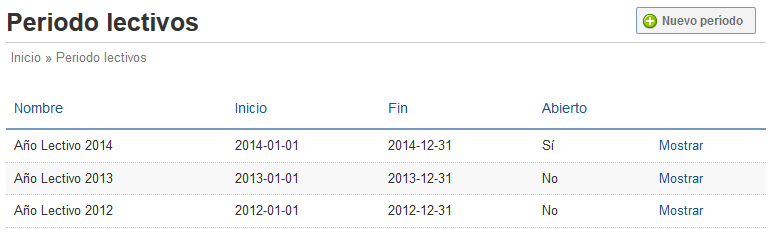
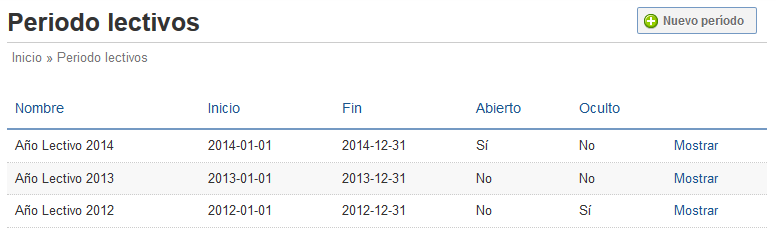
Modificaciones varias

diff --git a/index.html b/index.html
@@ -7,7 +7,7 @@ overview: true
 <section class="intro">
   <div class="grid">
     <div class="unit whole center-on-mobiles">
-      <p class="first"><a href='{{site_url}}/docs/home'> Ir a Gu&iacute;a de uso &raquo; </a></p>
+      <p class="first"><a href='{{ site.url }}/docs/home'> Ir a Gu&iacute;a de uso &raquo; </a></p>
     </div>
   </div>
 </section>

diff --git a/docs/estudiantes.md b/docs/estudiantes.md
@@ -14,7 +14,7 @@ Al ingresar en la opción *Estudiantes* en el menú se desplegará un listado de
 Adicionalmente, el listado cuenta con las siguientes opciones:
 
 - Por defecto, se muestran los estudiantes del periodo lectivo actual. Si se quiere visualizar información histórica, se debe *Mostrar filtros* **(1)**
-  y seleccionar un periodo lectivo diferente.
+  y seleccionar un [periodo lectivo visible](/docs/periodo_lectivos/#crear_periodo_lectivo) diferente.
 - Si el número de estudiantes es demasiado extenso, se puede *Mostrar filtros* **(1)** y limitar los resultados por código, nombres y/o apellidos,
   periodo lectivo o clase.
 - Si se cuenta con el permiso *ESTUDIANTE_CREATE*, se desbloquea la opción *Nuevo* **(2)** para [ingresar un estudiante](#crear_estudiante) sin ninguna ayuda,
@@ -138,7 +138,7 @@ siempre que se respete la proporción de 3 de ancho por 4 de alto. En caso contr
 
 Las opciones de esta pantalla son las siguientes:
 
-- Opción para [enviar un mensaje](/docs/mensajes/#crear_mensaje) **(1)** privado a este estudiante.
+- Opción para [enviar un mensaje](/docs/mensajes/#crear_mensaje) **(1)** privado a este estudiante, si se cuenta con el permiso *ESTUDIANTE_MESSAGE*.
 - Opción para *Editar* los detalles del estudiante **(2)**, si se cuenta con el permiso *ESTUDIANTE_UPDATE* y el periodo lectivo está abierto, 
   lo cual desplegará el formulario de actualización de estudiante con la mayoría de los campos del [formulario de creación](#crear_estudiante).
 - Opción para *Eliminar* el estudiante **(3)**, si se cuenta con el permiso *ESTUDIANTE_MANAGE*, el periodo lectivo esté abierto y el estudiante
@@ -175,10 +175,11 @@ Información académica del estudiante, la cual es diferente para cada periodo l
 - Se puede [visualizar la sección](/docs/secciones/#detalles_de_la_seccin) **(2)** del estudiante si se cuenta con el permiso *SECCION_READ*. Adicionalmente, 
   si se cuenta con el permiso *ESTUDIANTE_CLASE_MANAGE*, se puede acceder a la opción para transferir al estudiante a una sección diferente.
 - Se puede [visualizar el docente guía](/docs/docentes/#expediente_del_docente) **(3)** del estudiante si se cuenta con el permiso *DOCENTE_READ*.
-  Adicionalmente, se cuenta con la opción para [enviarle un mensaje privado](/docs/mensajes/#crear_mensaje).
+  Adicionalmente, se puede [enviarle un mensaje privado](/docs/mensajes/#crear_mensaje) si se cuenta con el permiso *DOCENTE_MESSAGE*.
 
 Cabe mencionar que las pestañas de *Materias*, *Horarios*, *Médico* e *Incidencias* dependen de la información académica que se tenga seleccionada. Por esta razón,
-en la parte inferior de esta pestaña se muestran enlaces **(4)** para visualizar el expediente y calificaciones del estudiante en dicho periodo lectivo.
+en la parte inferior de esta pestaña se muestran enlaces **(4)** para visualizar el expediente y calificaciones del estudiante en dicho periodo lectivo,
+siempre y cuando el [periodo lectivo no esté oculto](/docs/periodo_lectivos/#crear_periodo_lectivo).
 
 <div class="note warning">
   <h5>Transferencia de estudiante</h5>
@@ -195,7 +196,7 @@ En esta pestaña se muestra un listado de las materias que cursa el estudiante p
 
 - Se puede [visualizar la materia](/docs/materias/#detalles_de_la_materia) **(1)** si se cuenta con el permiso *MATERIA_READ*.
 - Se puede [visualizar el docente](/docs/docentes/#expediente_del_docente) **(2)** que imparte la materia si se cuenta con el permiso *DOCENTE_READ*. Adicionalmente,
-  se cuenta con la opción para [enviarle un mensaje privado](/docs/mensajes/#crear_mensaje).
+  se puede [enviarle un mensaje privado](/docs/mensajes/#crear_mensaje) si se cuenta con el permiso *DOCENTE_MESSAGE*.
 - Se pueden visualizar todas las evaluaciones, exámenes y consolidados de la materia, con sus respectivas descripciones y observaciones, al darle clic a la opción
   *Detalle* **(3)**:
 

diff --git a/docs/materias.md b/docs/materias.md
@@ -70,7 +70,7 @@ Existen diversas opciones de configuración para modificar el comportamiento de 
 
   - Si la calificación de una evaluación es inferior a este valor, entonces se resaltará en color rojo en todos los reportes del sistema.
   - Si el valor de la evaluación es menor al 100 %, entonces este valor es ponderado (por ejemplo, si la evaluación vale 10 puntos y el 
-    valor de la nota mínima es 60, entonces cualquier valor menor a 10).
+    valor de la nota mínima es 60, entonces cualquier valor menor a 6).
 
 - **Tipo materia**: Controla los [tipos de evaluaciones que se pueden crear](/docs/evaluaciones/#crear_evaluacin) para esta materia:
 
@@ -128,8 +128,8 @@ Las opciones de esta pantalla son las siguientes:
 
 - Opción para filtrar las pestañas de [estudiantes](#estudiantes) y [evaluaciones](#evaluaciones) por sección **(1)**. Esta opción se oculta si
   el docente no imparte la materia para más de una sección en el grado especificado.
-- Opción para [enviar un mensaje](/docs/mensajes/#crear_mensaje) **(2)** a toda la clase o sección. En el destinatario se podrá seleccionar si se quiere
-  enviar a los estudiantes y padres de familia, a los docentes o a ambos.
+- Opción para [enviar un mensaje](/docs/mensajes/#crear_mensaje) **(2)** a toda la clase o sección, si se cuenta con el permiso *CLASE_MESSAGE* o  *SECCION_MESSAGE*
+  respectivamente. En el destinatario se podrá seleccionar si se quiere enviar a los estudiantes y padres de familia, a los docentes o a ambos.
 - Opción para *Editar* los detalles de la materia **(3)**, si se cuenta con el permiso *MATERIA_MANAGE* y el periodo lectivo está abierto, 
   lo cual desplegará el formulario de actualización de la materia con los mismos campos del [formulario de creación](#crear_materia).
 - Opción para *Eliminar* la materia **(4)**, si se cuenta con el permiso *MATERIA_MANAGE*, el periodo lectivo está abierto y la materia no tiene
@@ -143,7 +143,7 @@ Información general de la sección (periodo lectivo, nivel, grado, docente guí
 
 - Se puede [visualizar la clase](/docs/clases/#detalles_de_la_clase) **(5)** si se cuenta con el permiso *CLASE_READ*.
 - Se puede [visualizar el docente](/docs/docentes/#expediente_del_docente) que imparte la clase **(6)** si se cuenta con el permiso *DOCENTE_READ*. Adicionalmente,
-  se cuenta con la opción para [enviarle un mensaje privado](/docs/mensajes/#crear_mensaje).
+  se puede [enviarle un mensaje privado](/docs/mensajes/#crear_mensaje) si se cuenta con el permiso *DOCENTE_MESSAGE*.
 - Si docentes diferentes imparten la asignatura en las diferentes secciones, entonces luego de los datos generales aparece una sección de *Docentes* en la 
   que se listan los docentes por cada sección.
 - Se puede [modificar la asignación de docentes](#asignar_docentes) **(7)** si se cuenta con el permiso *MATERIA_MANAGE*.
@@ -177,7 +177,7 @@ Esta pestaña muestra un listado de todos los estudiantes que reciben la materia
 
 - Se puede [visualizar un reporte de calificaciones](#calificaciones) **(1)** de la materia para todos los estudiantes.
 - Se puede [visualizar el expediente del estudiante](/docs/estudiantes/#expediente_del_estudiante) **(2)** si se cuenta con el permiso *ESTUDIANTE_READ*.
-- Para cada estudiante se cuenta con la opción de [enviarle un mensaje privado](/docs/mensajes/#crear_mensaje) **(3)**.
+- Se puede [enviarle un mensaje privado](/docs/mensajes/#crear_mensaje) **(3)** al estudante si se cuenta con el permiso *ESTUDIANTE_MESSAGE*.
 - Se puede [visualizar el detalle de calificaciones específico para el estudiante](#detalle_de_calificaciones) **(4)**.
 
 #### Calificaciones

diff --git a/docs/clases.md b/docs/clases.md
@@ -54,8 +54,8 @@ para el periodo lectivo seleccionado.
 
 Las opciones de esta pantalla son las siguientes:
 
-- Opción para [enviar un mensaje](/docs/mensajes/#crear_mensaje) **(1)** a toda la clase. En el destinatario se podrá seleccionar si se quiere
-  enviar a los estudiantes y padres de familia, a los docentes o a ambos.
+- Opción para [enviar un mensaje](/docs/mensajes/#crear_mensaje) **(1)** a toda la clase, si se cuenta con el permiso *CLASE_MESSAGE*. En el destinatario 
+  se podrá seleccionar si se quiere enviar a los estudiantes y padres de familia, a los docentes o a ambos.
 - Opción para *Editar* los detalles de la clase **(2)**, si se cuenta con el permiso *CLASE_MANAGE* y el periodo lectivo está abierto, 
   lo cual desplegará el formulario de actualización de la clase con los mismos campos del [formulario de creación](#crear_clase).
 - Opción para *Eliminar* la clase **(3)**, si se cuenta con el permiso *CLASE_MANAGE*, el periodo lectivo está abierto y la clase no tiene
@@ -75,7 +75,7 @@ Esta pestaña muestra un listado de las materias que se cursan en la clase.
 
 - Se puede [crear una materia](/docs/materias/#crear_materia) **(1)** si se cuenta con el permiso *MATERIA_CREATE*.
 - Se puede [visualizar el docente](/docs/docentes/#expediente_del_docente) **(2)** que imparte la materia si se cuenta con el permiso *DOCENTE_READ*. Adicionalmente,
-  se cuenta con la opción para [enviarle un mensaje privado](/docs/mensajes/#crear_mensaje).
+  se puede [enviarle un mensaje privado](/docs/mensajes/#crear_mensaje) si se cuenta con el permiso *DOCENTE_MESSAGE*.
 - Se puede [visualizar la materia](/docs/materias/#detalles_de_la_materia) **(3)** si se cuenta con el permiso *MATERIA_READ*.
 
 ### Secciones
@@ -86,7 +86,7 @@ Esta pestaña muestra un listado de las secciones en las que se divide la clase.
 
 - Se puede [crear una sección](/docs/secciones/#crear_seccin) **(1)** si se cuenta con el permiso *SECCION_CREATE*.
 - Se puede [visualizar el docente guía](/docs/docentes/#expediente_del_docente) **(2)** de la sección si se cuenta con el permiso *DOCENTE_READ*. Adicionalmente,
-  se cuenta con la opción para [enviarle un mensaje privado](/docs/mensajes/#crear_mensaje).
+  se puede [enviarle un mensaje privado](/docs/mensajes/#crear_mensaje) si se cuenta con el permiso *DOCENTE_MESSAGE*.
 - Se puede [visualizar la sección](/docs/secciones/#detalles_de_la_seccin) **(3)** si se cuenta con el permiso *SECCION_READ*.
 
 ### Estudiantes
@@ -97,7 +97,7 @@ Esta pestaña muestra un listado de todos los estudiantes asignados a la clase.
 
 - Se puede [administrar la asignación de estudiantes a la clase](#asignar_estudiantes) **(1)** si se cuenta con el permiso *ESTUDIANTE_CLASE_MANAGE*.
 - Se puede [visualizar un reporte de calificaciones](#calificaciones) **(2)** consolidado para todos los estudiantes de la clase.
-- Para cada estudiante se cuenta con la opción de [enviarle un mensaje privado](/docs/mensajes/#crear_mensaje) **(3)**.
+- Se puede [enviarle un mensaje privado](/docs/mensajes/#crear_mensaje) **(3)** al estudiante si se cuenta con el permiso *ESTUDIANTE_MESSAGE*.
 - Se puede [visualizar el expediente del estudiante](/docs/estudiantes/#expediente_del_estudiante) **(4)** si se cuenta con el permiso *ESTUDIANTE_READ*.
 
 #### Asignar Estudiantes

diff --git a/docs/secciones.md b/docs/secciones.md
@@ -57,8 +57,8 @@ El docente que se designe como guía de la sección debe tener [asignada al meno
 
 Las opciones de esta pantalla son las siguientes:
 
-- Opción para [enviar un mensaje](/docs/mensajes/#crear_mensaje) **(1)** a toda la sección. En el destinatario se podrá seleccionar si se quiere
-  enviar a los estudiantes y padres de familia, a los docentes o a ambos.
+- Opción para [enviar un mensaje](/docs/mensajes/#crear_mensaje) **(1)** a toda la sección, si se cuenta con el permiso *SECCION_MESSAGE*. En el destinatario 
+  se podrá seleccionar si se quiere enviar a los estudiantes y padres de familia, a los docentes o a ambos.
 - Opción para *Editar* los detalles de la sección **(2)**, si se cuenta con el permiso *SECCION_MANAGE* y el periodo lectivo está abierto, 
   lo cual desplegará el formulario de actualización de la sección con los mismos campos del [formulario de creación](#crear_seccin).
 - Opción para *Eliminar* la sección **(3)**, si se cuenta con el permiso *SECCION_MANAGE*, el periodo lectivo está abierto y la sección no tiene
@@ -72,7 +72,7 @@ Información general de la sección (periodo lectivo, nivel, grado, docente guí
 
 - Se puede [visualizar la clase](/docs/clases/#detalles_de_la_clase) **(4)** si se cuenta con el permiso *CLASE_READ*.
 - Se puede [visualizar el docente guía](/docs/docentes/#expediente_del_docente) **(5)** si se cuenta con el permiso *DOCENTE_READ*. Adicionalmente,
-  se cuenta con la opción para [enviarle un mensaje privado](/docs/mensajes/#crear_mensaje).
+  se puede [enviarle un mensaje privado](/docs/mensajes/#crear_mensaje) si se cuenta con el permiso *DOCENTE_MESSAGE*.
 
 ### Materias
 
@@ -89,7 +89,7 @@ Esta pestaña muestra un listado de todos los estudiantes asignados a la secció
 - Se puede exportar el listado de estudiantes **(2)** a una hoja de cálculo de Excel con 2 hojas: una para registrar las asistencias y otroas para las notas.
 - Se pueden exportar los boletines de todos los estudiantes **(3)** en una hoja de cálculo de Excel si se cuenta con el permiso *SECCION_BOLETIN*.
 - Se puede [visualizar un reporte de calificaciones](/docs/clases/#calificaciones) **(4)** consolidado para todos los estudiantes de la sección.
-- Para cada estudiante se cuenta con la opción de [enviarle un mensaje privado](/docs/mensajes/#crear_mensaje) **(5)**.
+- Se puede [enviarle un mensaje privado](/docs/mensajes/#crear_mensaje) **(5)** al estudiante si se cuenta con el permiso *ESTUDIANTE_MESSAGE*.
 - Se puede [visualizar el expediente del estudiante](/docs/estudiantes/#expediente_del_estudiante) **(6)** si se cuenta con el permiso *ESTUDIANTE_READ*.
 
 ### Horario

diff --git a/docs/seguridad.md b/docs/seguridad.md
@@ -18,6 +18,7 @@ que le dan acceso global a ciertas funciones del sistema. A continuación se da 
 - *PERFIL_MANAGE*: Administrar perfiles de usuarios
 - *USUARIO_READ*: Listar usuarios
 - *USUARIO_CREATE*: Crear usuarios
+- *USUARIO_MESSAGE*: Enviar mensajes a usuarios
 - *USUARIO_MANAGE*: Administrar usuarios
 - *NIVEL_READ*: Listar niveles
 - *NIVEL_MESSAGE*: Envío de anuncions a niveles
@@ -31,24 +32,29 @@ que le dan acceso global a ciertas funciones del sistema. A continuación se da 
 - *TIPO_NOTA_MANAGE*: Administrar tipos de notas
 - *RECORRIDO_MANAGE*: Administrar recorridos
 - *DOCENTE_READ*: Listar docentes
+- *DOCENTE_MESSAGE*: Enviar mensajes a docentes
 - *DOCENTE_CREATE*: Crear docentes
 - *DOCENTE_UPDATE*: Actualizar docentes
 - *DOCENTE_MANAGE*: Administrar docentes
 - *ESTUDIO_MANAGE*: Administración información académica de docentes
 - *EXPERIENCIA_MANAGE*: Administración experiencia laboral de docentes
 - *ESTUDIANTE_READ*: Listar estudiantes
+- *ESTUDIANTE_MESSAGE*: Enviar mensajes a estudiantes
 - *ESTUDIANTE_CREATE*: Crear estudiantes
 - *ESTUDIANTE_UPDATE*: Actualizar estudiantes
 - *ESTUDIANTE_MEDICAR*: Actualizar expediente médico de estudiantes
 - *ESTUDIANTE_MANAGE*: Administrar estudianets
 - *PARIENTE_READ*: Listar responsables
+- *PARIENTE_MESSAGE*: Enviar mensajes a responsables
 - *PARIENTE_CREATE*: Crear responsables
 - *PARIENTE_UPDATE*: Actualizar responsables
 - *PARIENTE_MANAGE*: Administrar responsables
 - *CLASE_READ*: Listar clases
+- *CLASE_MESSAGE*: Enviar mensajes a clases
 - *CLASE_MANAGE*: Administrar clases
 - *ESTUDIANTE_CLASE_MANAGE*: Administrar asignación de estudiantes y clases
 - *SECCION_READ*: Listar secciones
+- *SECCION_MESSAGE*: Enviar mensajes a secciones
 - *SECCION_BOLETIN*: Exportar boletines de calificaciones
 - *SECCION_MANAGE*: Administrar secciones
 - *MATERIA_READ*: Listar materias
@@ -57,6 +63,8 @@ que le dan acceso global a ciertas funciones del sistema. A continuación se da 
 - *EVALUACION_READ*: Listar evaluaciones
 - *EVALUACION_MANAGE*: Administrar evaluaciones
 - *MENSAJE_READ*: Listar mensajes
+- *MENSAJE_MESSAGE*: Responder mensajes
+- *MENSAJE_ADJUNTO_CREATE*: Adjuntar archivos a los mensajes
 - *INCIDENCIA_READ*: Listar incidencias
 - *INCIDENCIA_MANAGE*: Administrar incidencias
 - *REGISTRO_MEDICO_READ*: Listar registros médicos

diff --git a/docs/configuracion.md b/docs/configuracion.md
@@ -15,7 +15,7 @@ En esta pantalla se permiten actualizar configuraciones globales para el sistema
 ## Perfil Estudiante, Docente y Pariente
 
 Si se utiliza esta opción, se bloqueará el campo de *Perfil* cuando se [ingrese un nuevo usuario](/docs/usuarios/#crear_usuario)
-desde la pestaña de *Usuarios* del objeto correspondiente.
+desde la pestaña de *Usuarios* del [objeto correspondiente](/docs/seguridad/#objetos).
 
 Adicionalmente, si no se especifica un perfil de estudiante por defecto no se podrán crear usuarios en masa al
 [importar los listados en masa](/docs/periodo_lectivos/#importar).
@@ -40,12 +40,12 @@ Para ilustrar este comportamiento, considérese un escenario con las siguientes 
 
 Si la opción está desactivada, los consolidados superiores se calcularán de la siguiente manera:
 
-- *PRIMER SEMESTRE* = *(1B + 2B)/2* = *(90 + 91)/2* = *90.5* = **91**.
-- *SEGUNDO SEMESTRE* = *(3B + 4B)/2* = *(91 + 92)/2* = *91.5* = **92**.
+- *PRIMER SEMESTRE* = *(1B + 2B)/2* = *(90 + 91)/2* = *90.5* ≈ **91**.
+- *SEGUNDO SEMESTRE* = *(3B + 4B)/2* = *(91 + 92)/2* = *91.5* ≈ **92**.
 - *FINAL* = *(1B + 2B + 3B + 4B)/4* = *(90 + 91 + 91 + 92)/4* = **91**.
 
 En cambio, si la opción está habilitada, el cálculo sería de la siguiente manera:
 
-- *PRIMER SEMESTRE* = *(1B + 2B)/2* = *(90 + 91)/2* = *90.5* = **91**.
-- *SEGUNDO SEMESTRE* = *(3B + 4B)/2* = *(91 + 92)/2* = *91.5* = **92**.
-- *FINAL* = *(1S + 2S)/2* = *(91 + 92)/2* = *91.5* = **92**.
+- *PRIMER SEMESTRE* = *(1B + 2B)/2* = *(90 + 91)/2* = *90.5* ≈ **91**.
+- *SEGUNDO SEMESTRE* = *(3B + 4B)/2* = *(91 + 92)/2* = *91.5* ≈ **92**.
+- *FINAL* = *(1S + 2S)/2* = *(91 + 92)/2* = *91.5* ≈ **92**.

diff --git a/docs/quickstart.md b/docs/quickstart.md
@@ -42,7 +42,8 @@ En la parte inferior se puede acceder a un registro de cambios en el que se pued
 
 Información académica del estudiante, la cual es diferente para cada periodo lectivo (periodo lectivo, nivel, grado, sección, docente guía, etc.).
 
-Al lado de la información del docente aparece un enlace **(1)** para [enviar un mensaje privado](/docs/mensajes/#crear_mensaje) al docente en cuestión.
+Al lado de la información del docente aparece un enlace **(1)** para [enviar un mensaje privado](/docs/mensajes/#crear_mensaje) al docente en cuestión,
+si la opción se encuentra habilitada en el sistema.
 
 Cabe mencionar que las pestañas de *Materias*, *Horarios*, *Médico* e *Incidencias* dependen de la información académica que se tenga seleccionada. Por esta razón,
 en la parte inferior de esta pestaña se muestran enlaces **(2)** para visualizar el expediente y calificaciones del estudiante en dicho periodo lectivo.
@@ -52,7 +53,8 @@ en la parte inferior de esta pestaña se muestran enlaces **(2)** para visualiza
 ![materias](/img/docs/estudiante_materias.png)
 
 En esta pestaña se muestra un listado de las materias que se encuentra cursando el estudiante, el docente que la imparte (con un enlace **(1)** para 
-[enviar un mensaje](/docs/mensajes/#crear_mensaje)), la calificación parcial y un enlace **(2)** para visualizar el detalle de la calificación:
+[enviar un mensaje](/docs/mensajes/#crear_mensaje) si la opción está habilitada en el sistema), la calificación parcial y un enlace **(2)** 
+para visualizar el detalle de la calificación:
 
 ![calificacion](/img/docs/estudiante_calificacion.png)
 

diff --git a/docs/mensajes.md b/docs/mensajes.md
@@ -26,9 +26,12 @@ caso la columna de remitente es reemplazada por la de destinatario.
 Al acceder al mensaje se puede visualizar la fecha en la que fue enviado, el destinatario (puede ser una persona específica o un grupo de personas,
 como una sección, clase o nivel), remitente, asunto, archivos adjuntos (si existieran) y contenido del mensaje.
 
-Al lado del remitente se encuentra un enlace **(1)** para enviarle un mensaje al remitente. De igual manera, entre las opciones del mensaje se
-incluye la opción *Responder* **(1)**, lo cual abre el formulario de creación de mensaje de la misma forma que la opción anterior, pero citando
-el asunto y contenido del mensaje actual; por otra parte, la opción *Eliminar* remueve al mensaje de la bandeja de entrada (o salida) del usuario, aunque 
+Al lado del remitente se encuentra un enlace **(1)** para enviarle un mensaje al remitente, si se cuenta con el permiso *USUARIO_MESSAGE*.
+
+De igual manera, entre las opciones del mensaje se incluye la opción *Responder* **(1)**, si se cuenta con el permiso *MENSAJE_MESSAGE*, lo cual abre 
+el formulario de creación de mensaje de la misma forma que la opción anterior, pero citando el asunto y contenido del mensaje actual.
+
+Por último, la opción *Eliminar* remueve al mensaje de la bandeja de entrada (o salida) del usuario, aunque 
 *no elimina físicamente el mensaje de la base de datos del sistema* por razones de auditoría.
 
 ## Crear mensaje

diff --git a/docs/evaluaciones.md b/docs/evaluaciones.md
@@ -41,7 +41,7 @@ lo cual desplegará el siguiente formulario:
 - Se debe seleccionar un *Tipo* de evaluación. Los tipos permitidos dependen de la [configuración de la materia](/docs/materias/#configuraciones_de_la_materia),
   y pueden ser cualquiera de los siguientes:
   - *Acumulado*: Pueden ingresarse cualquier número de evaluaciones acumulativas. El campo de *Porcentaje* siempre es requerido para este tipo.
-  - *Examen*: Solo puede ingresarse un examen por bloque. El campo de *Porcentaje* requerido si el porcentaje del examen es variable.
+  - *Examen*: Solo puede ingresarse un examen por bloque. El campo de *Porcentaje* es requerido si el porcentaje del examen es variable.
   - *Reparación*: Solo se pueden ingresar cuando estén consolidados todos los bloques evaluativos.
 - Se debe especificar una *Fecha* de la evaluación, la cual debe ser única para la sección. Opcionalmente se puede especificar la *Hora*.
 - Se debe seleccionar el *Porcentaje* de la evaluación solo si es requerido, en caso contrario el valor será ignorado y se determinará automáticamente.

diff --git a/docs/parientes.md b/docs/parientes.md
@@ -41,7 +41,7 @@ se podrá acceder a los [detalles del pariente](#detalles_del_pariente).
 
 Las opciones de esta pantalla son las siguientes:
 
-- Opción para [enviar un mensaje](/docs/mensajes/#crear_mensaje) **(1)** privado a este pariente.
+- Opción para [enviar un mensaje](/docs/mensajes/#crear_mensaje) **(1)** privado a este pariente, si se cuenta con el permiso *PARIENTE_MESSAGE*.
 - Opción para *Editar* los detalles del pariente **(2)**, si se cuenta con el permiso *PARIENTE_UPDATE*, lo cual desplegará el formulario de actualización 
   del pariente con los mismos campos del [formulario de creación](#crear_pariente).
 - Opción para *Eliminar* el pariente **(3)**, si se cuenta con el permiso *PARIENTE_MANAGE* y el pariente no tenga asignado ningún estudiante como hijo o dependiente.

diff --git a/docs/docentes.md b/docs/docentes.md
@@ -72,7 +72,7 @@ Luego de enviar el formulario exitosamente, se podrá acceder al [expediente del
 
 Las opciones de esta pantalla son las siguientes:
 
-- Opción para [enviar un mensaje](/docs/mensajes/#crear_mensaje) **(1)** privado a este docente.
+- Opción para [enviar un mensaje](/docs/mensajes/#crear_mensaje) **(1)** privado a este docente, si se cuenta con el permiso *DOCENTE_MESSAGE*.
 - Opción para *Editar* los detalles del docente **(2)**, si se cuenta con el permiso *DOCENTE_UPDATE*, lo cual desplegará el formulario de actualización 
   del docente con los mismos campos del [formulario de creación](#crear_docente).
 - Opción para *Eliminar* el docente **(3)**, si se cuenta con el permiso *DOCENTE_MANAGE* y el docente no tenga asignado ninguna sección o materia.
